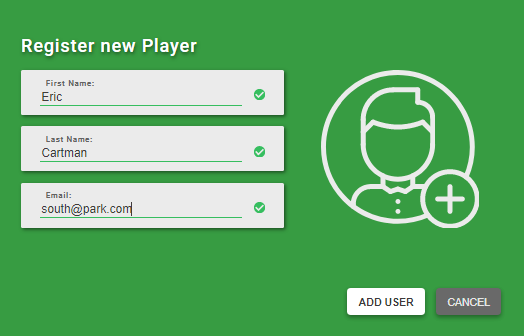
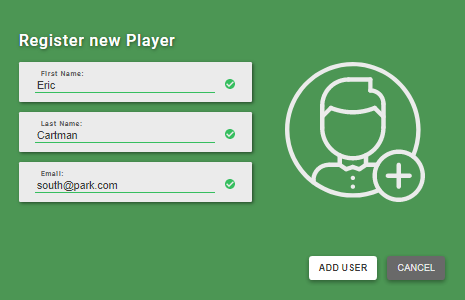
refactor: code refactor

diff --git a/match-match-game/src/components/game/game.ts b/match-match-game/src/components/game/game.ts
@@ -16,15 +16,13 @@ export class Game extends BaseComponent {
 
   private timer: Timer;
 
-  currentCountCouple: number = 0;
+  private totalCountCouple: number = 8;
 
-  totalCountCouple: number = 8;
+  private score: number = 0;
 
-  score: number = 0;
+  private successCompare: number = 0;
 
-  successCompare: number = 0;
-
-  wrongCompare: number = 0;
+  private wrongCompare: number = 0;
 
   constructor() {
     super('div', ['game']);
@@ -34,8 +32,14 @@ export class Game extends BaseComponent {
     this.element.append(this.cardsField.element);
   }
 
-  newGame(images: string[]): void {
+  startGame(images: string[]): void {
     const count = Number(sessionStorage.getItem('difficulty'));
+    this.totalCountCouple = count / 2;
+    this.successCompare = 0;
+    this.wrongCompare = 0;
+    this.score = 0;
+    this.timer.resetTimer();
+
     if (count !== 16) {
       if (this.cardsField.element.classList.contains('cards-field_24')) {
         this.cardsField.element.classList.remove('cards-field_24');
@@ -62,7 +66,7 @@ export class Game extends BaseComponent {
   }
 
   getScore() {
-    this.timer.finishTimer();
+    this.timer.stopTimer();
     const seconds = this.timer.getSeconds();
     console.log(this.totalCountCouple, this.successCompare, this.wrongCompare, seconds);
 
@@ -87,9 +91,8 @@ export class Game extends BaseComponent {
         card.element.classList.add('not-available');
         this.activeCard.element.classList.add('not-available');
         this.successCompare++;
-        this.currentCountCouple++;
         this.isAnimation = false;
-        if (this.currentCountCouple < this.totalCountCouple) {
+        if (this.successCompare < this.totalCountCouple) {
           this.activeCard = undefined;
           return;
         } else this.getScore();

diff --git a/match-match-game/src/components/game-setting/game-setting.ts b/match-match-game/src/components/game-setting/game-setting.ts
@@ -3,7 +3,7 @@ import { BaseComponent } from "../base-component";
 import { ImageCategoryModel } from "../models/image-category-model";
 import { Select } from "../shared/select/select";
 
-
+const difficulty = ['16 cards', '24 cards', '36 cards'];
 const categories: string[] = [];
 
 async function getCategories() {
@@ -21,13 +21,19 @@ export class GameSetting extends BaseComponent {
   constructor() {
     super('div', ['game-setting']);
 
-    this.selectDifficulty = new Select('Difficulty', ['16 cards', '24 cards', '36 cards'], 'select-cards-type', 'select game difficulty');
+    this.selectDifficulty = new Select('Difficulty', difficulty, 'select-cards-type', 'select game difficulty');
     this.selectCardsType = new Select('Game cards', categories, 'select-cards-type', 'select game cards type');
+
     this.element.append(this.selectCardsType.element, this.selectDifficulty.element);
 
     this.selectCardsType.select.element.addEventListener('input', () => {
-      sessionStorage.setItem('cardsType', (this.selectCardsType.select.element as HTMLInputElement).value);
+      const cardsTypeValue = (this.selectCardsType.select.element as HTMLInputElement).value;
+      sessionStorage.setItem('cardsType', cardsTypeValue);
     })
 
+    this.selectDifficulty.select.element.addEventListener('input', () => {
+      const difficultyValue = (this.selectDifficulty.select.element as HTMLInputElement).value;
+      sessionStorage.setItem('difficulty', difficultyValue.slice(0, 2));
+    })
   }
 }

diff --git a/match-match-game/src/app.ts b/match-match-game/src/app.ts
@@ -129,13 +129,6 @@ export class App {
       }
     })
 
-
-    this.setting.selectDifficulty.select.element.addEventListener('input', () => {
-      const selectValue = (this.setting.selectDifficulty.select.element as HTMLInputElement).value;
-      sessionStorage.setItem('difficulty', selectValue.slice(0, 2));
-      this.game.totalCountCouple = +selectValue.slice(0, 2) / 2;
-    })
-
     // const avatarInput = this.about.popup.avatarInput.element as HTMLInputElement;
     // let avatarBase64;
     // avatarInput.addEventListener('input', () => {
@@ -164,7 +157,7 @@ export class App {
       }
     }
     const images = category.images.map((name) => `${category.category}/${name}`);
-    this.game.newGame(images);
+    this.game.startGame(images);
   }
 
   submit():void {

diff --git a/match-match-game/src/components/about-game/about-game.scss b/match-match-game/src/components/about-game/about-game.scss
@@ -31,7 +31,7 @@
   padding: 20px;
   width: 430px;
   height: 100%;
-  background-color: rgba(55,156,66,.5);
+  background-color: rgba(76,150,84,.5);
   box-shadow: 2px 4px 10px rgba(0, 0, 0, 0.3);
   &__number {
     display: flex;
@@ -95,7 +95,7 @@
   &:hover,
   &:focus {
     outline: none;
-    text-shadow: 1px 2px 5px rgba(0,0,0,.5);
+    text-shadow: 1px 2px 5px rgba(0,0,0,.3);
     box-shadow: 0 3px 6px rgba(0,0,0,.25), 0 3px 6px rgba(0,0,0,.30);
   }
   &:active {

diff --git a/match-match-game/src/components/popup/popup.scss b/match-match-game/src/components/popup/popup.scss
@@ -54,7 +54,7 @@
   justify-content: flex-start;
   width: 700px;
   height: 450px;
-  background-color: rgb(55,156,66);
+  background-color: rgb(76,150,84);
   box-shadow: 0 0 15px rgba(0, 0, 0, 0.2);
   &__title {
     margin-top: 20px;
@@ -114,7 +114,7 @@
   .button_add-user {
     color: rgb(59, 59, 59);
     &:hover {
-      color: rgb(55,156,66);
+      color: rgb(26, 180, 44);
       text-shadow: 1px 1px 3px rgba(0,0,0,0.3);
     }
   }

diff --git a/match-match-game/src/components/header/nav/nav-btn/nav-btn.scss b/match-match-game/src/components/header/nav/nav-btn/nav-btn.scss
@@ -65,7 +65,10 @@
   }
 }
 .nav-btn_highlight {
-  background-color: rgba(255, 255, 255, 0.1);
+  background-color: rgba(255, 255, 255, 0.2);
+  &:hover {
+    background-color: rgba(255, 255, 255, 0.2);
+  }
   .nav-btn__icon {
     box-shadow: 0 3px 6px rgba(0, 0, 0, 0.16), 0 3px 6px rgba(0, 0, 0, 0.23);
   }

diff --git a/match-match-game/src/components/shared/timer/timer.ts b/match-match-game/src/components/shared/timer/timer.ts
@@ -41,9 +41,15 @@ export class Timer extends BaseComponent {
     }, 1000);
   }
 
-  finishTimer() {
+  stopTimer() {
     clearInterval(secondsTimer);
     clearInterval(minutesTimer);
+  }
+
+  resetTimer() {
+    this.seconds = 0;
+    this.minutes = 0;
+    this.render();
   }
 
   getSeconds() {

diff --git a/match-match-game/src/components/game-setting/game-setting.scss b/match-match-game/src/components/game-setting/game-setting.scss
@@ -6,7 +6,7 @@
   justify-content: space-between;
   width: 900px;
   height: 300px;
-  background-color: rgba(55,156,66,.5);
+  background-color: rgba(76,150,84,.5);
   border-radius: 2px;
   box-shadow: 2px 4px 10px rgba(0, 0, 0, 0.3);
 }

diff --git a/match-match-game/src/components/header/game-btn/game-btn.scss b/match-match-game/src/components/header/game-btn/game-btn.scss
@@ -10,7 +10,7 @@
   height: 40px;
   font-size: 16px;
   font-weight: 700;
-  color: rgb(55,156,66);
+  color: rgb(76,150,84);
   text-transform: uppercase;
   letter-spacing: 1.5px;
   background-color: rgb(255, 255, 255);

diff --git a/match-match-game/src/components/header/header.scss b/match-match-game/src/components/header/header.scss
@@ -6,7 +6,7 @@
   align-items: center;
   height: 70px;
   width: 100%;
-  background-color: rgb(55,156,66);
+  background-color: rgb(76,150,84);
   box-shadow: 0 5px 10px rgba(0,0,0,.5);
 }
 

diff --git a/match-match-game/src/components/shared/select/select.scss b/match-match-game/src/components/shared/select/select.scss
@@ -28,6 +28,6 @@
     outline: none;
     color: rgb(255, 255, 255);
     font-size: 16px;
-    background-color: rgb(55,156,66);
+    background-color: rgb(76,150,84);
   }
 }
